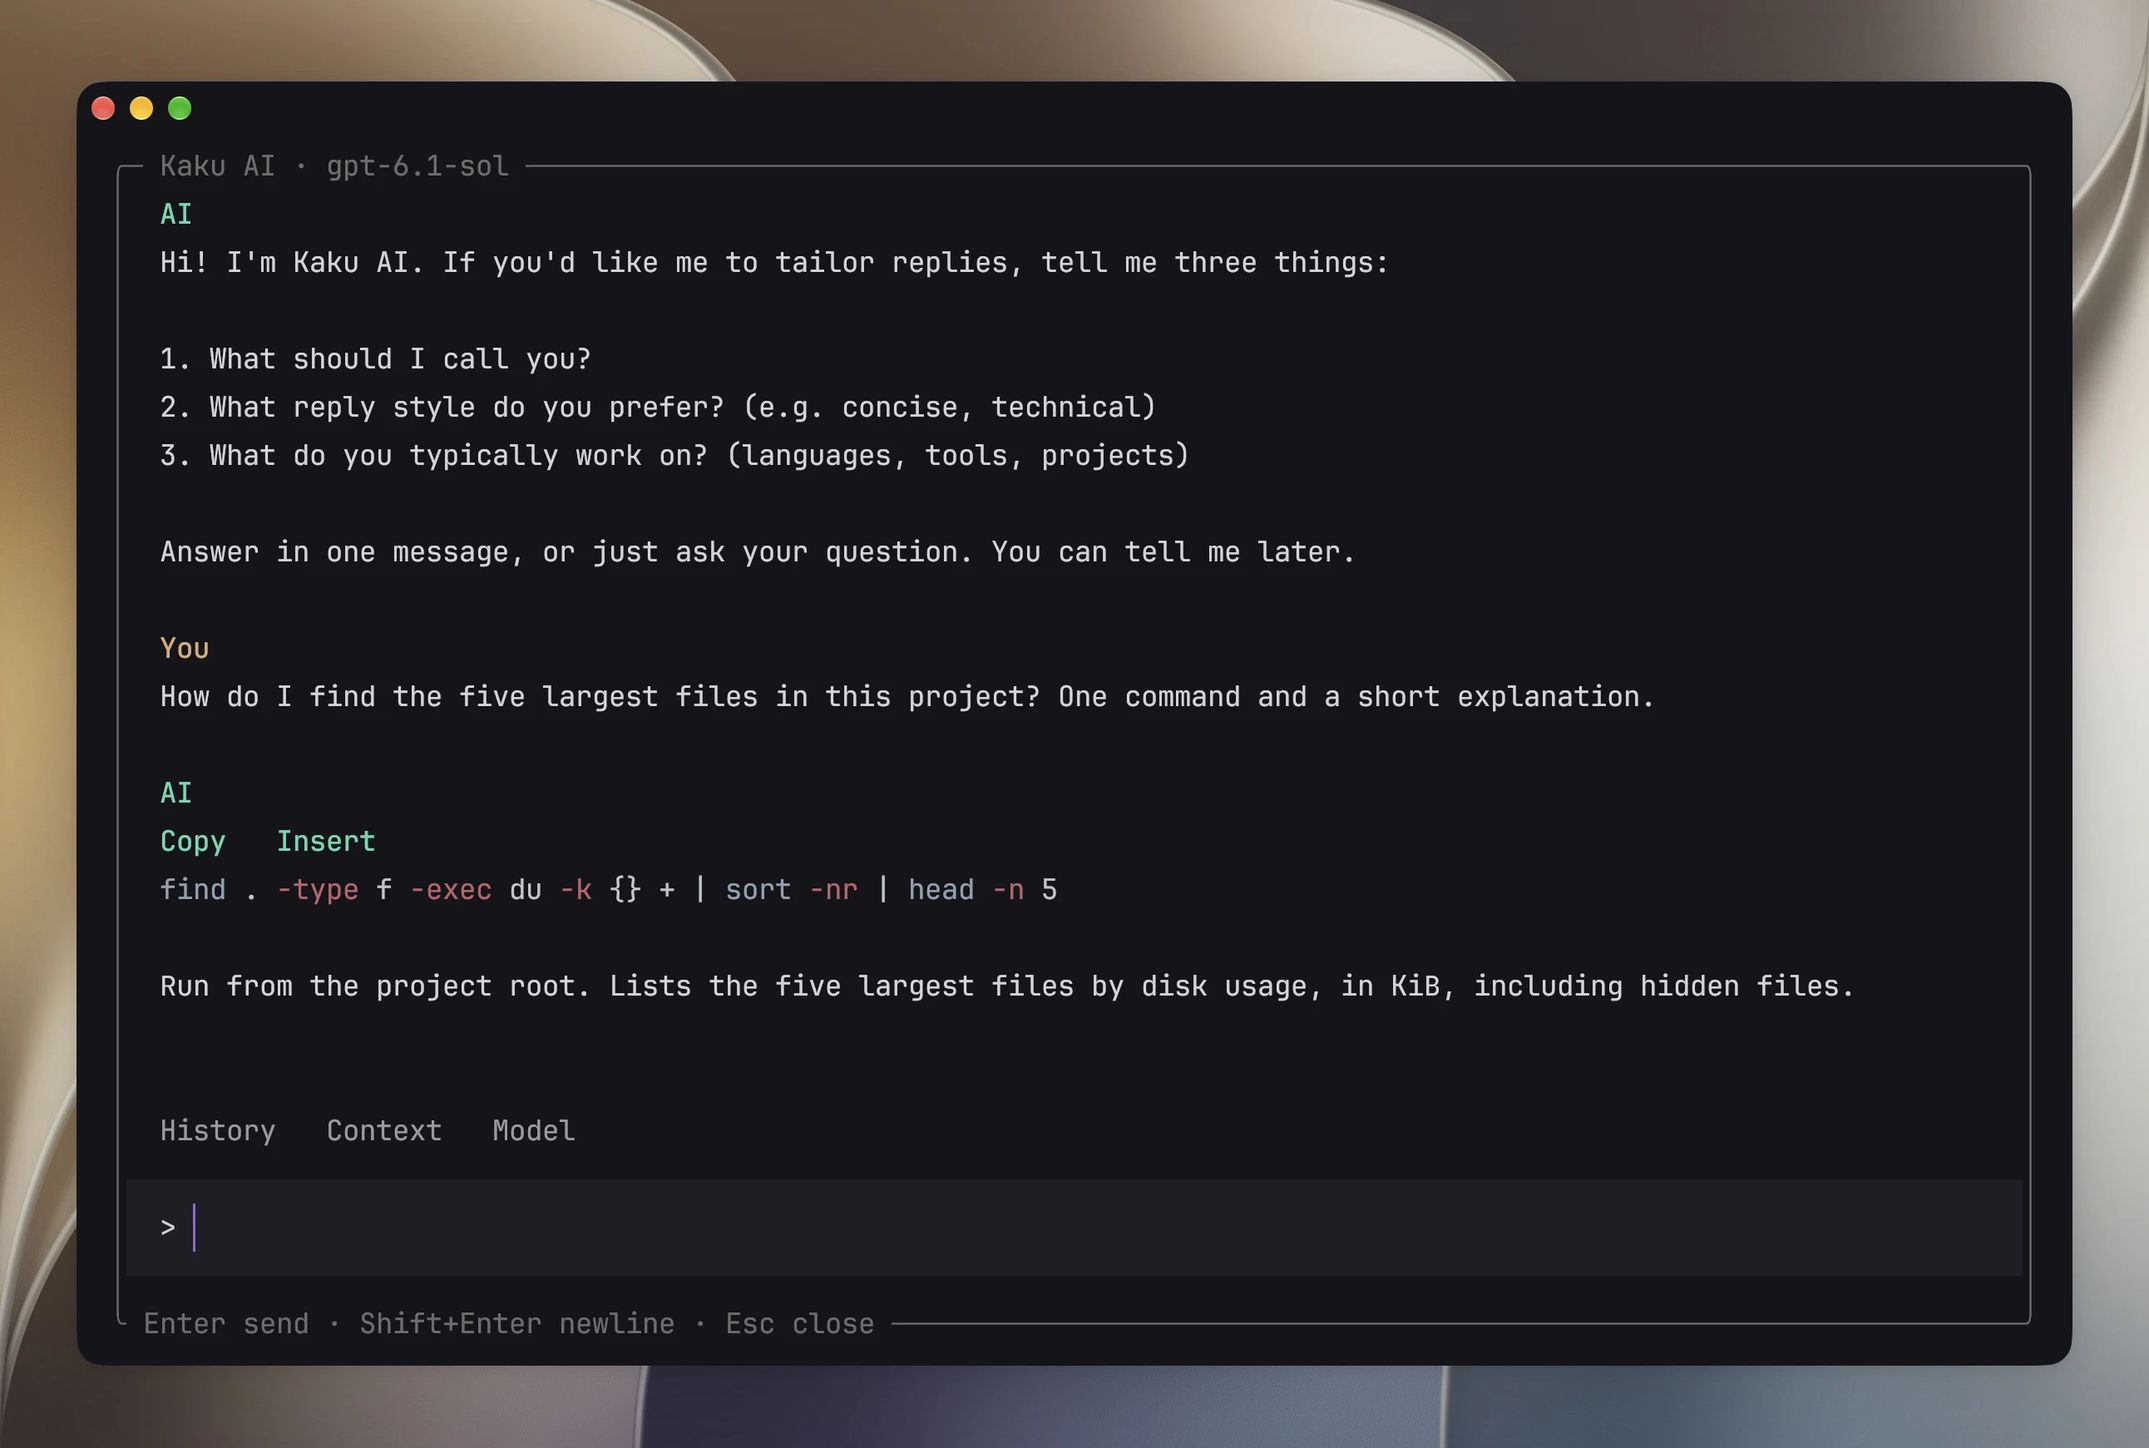
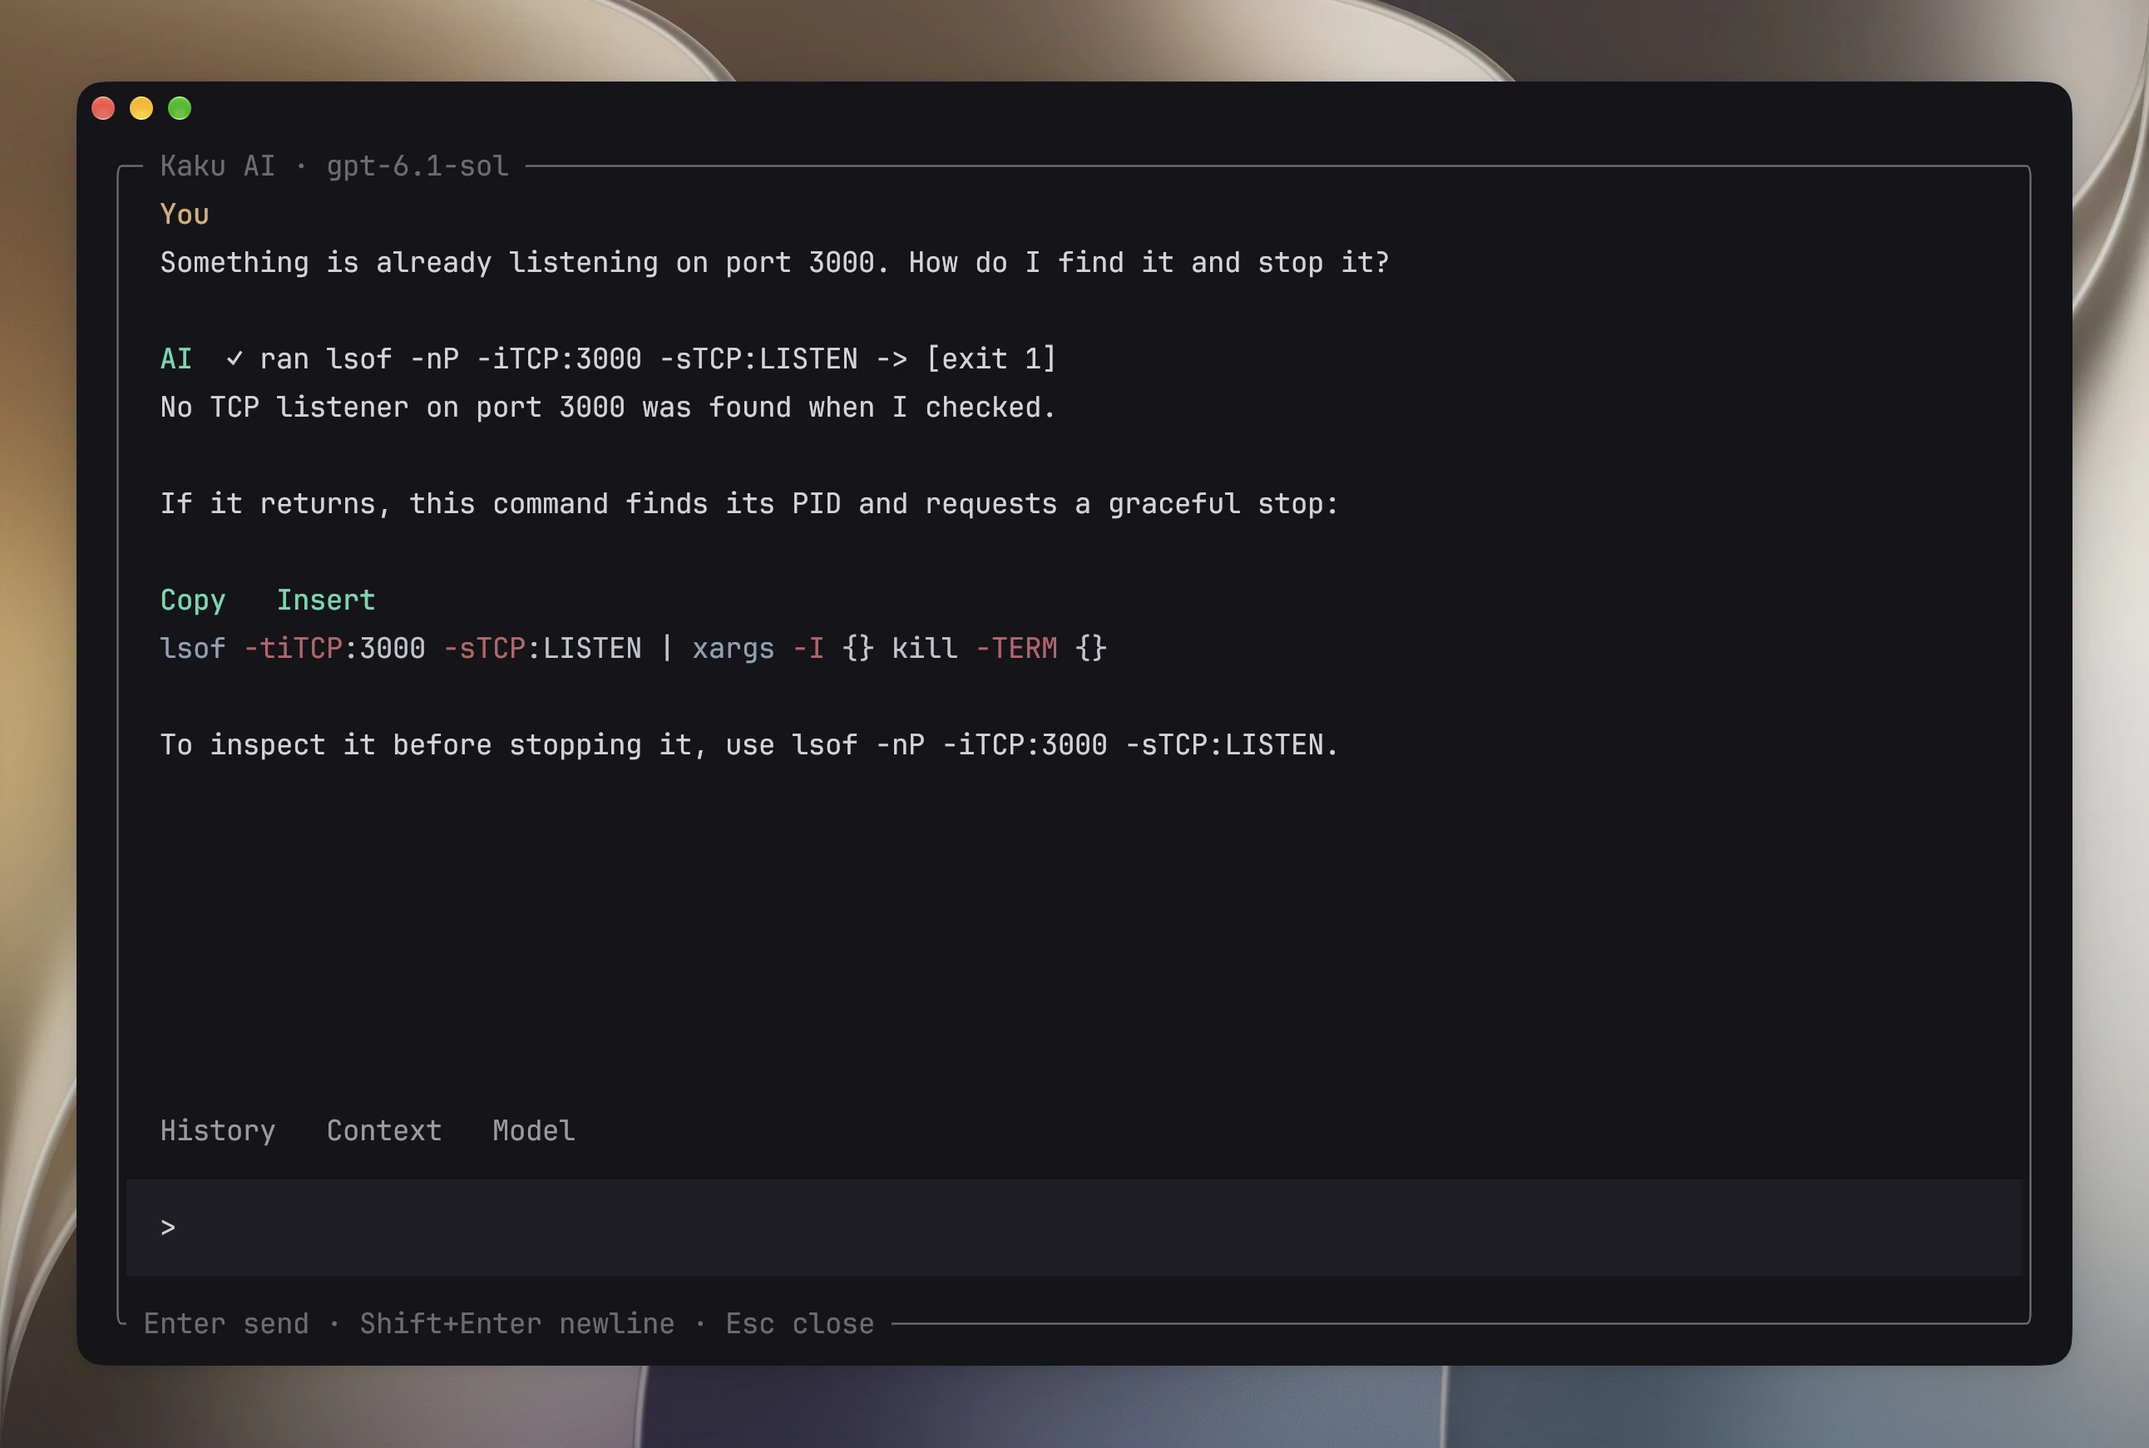
feat(site): add a panes shot and retake the light and Kaku AI shots
Tabs and panes lead the defaults list but no shot showed them; the new one splits lazygit, vim and a shell with the tab bar visible. The light Yazi shot had picked up the dark flavor from the capture machine, so its dividers and selection were dark; it now uses kaku-light as a light user sees it. The Kaku AI shot showed the first-run greeting and now shows a real answer.

diff --git a/zh/index.html b/zh/index.html
@@ -244,16 +244,18 @@
       <div class="gallery" data-gallery>
         <div class="gallery-frame">
           <figure class="gallery-panel is-active" id="shot-ai" role="tabpanel" aria-labelledby="tab-ai"><a href="/shots/home/ai.webp?v=ca1374cd3185" tabindex="-1"><img src="/shots/home/ai-1980w.webp?v=ca1374cd3185" srcset="/shots/home/ai-1080w.webp?v=ca1374cd3185 1080w, /shots/home/ai-1980w.webp?v=ca1374cd3185 1980w, /shots/home/ai.webp?v=ca1374cd3185 2584w" sizes="(max-width: 1120px) calc(100vw - 32px), 992px" width="2584" height="1741" fetchpriority="high" decoding="async" alt="Claude Code 在项目里干活，窗口右上角显示它正在做什么"></a></figure>
-          <figure class="gallery-panel" id="shot-assistant" role="tabpanel" aria-labelledby="tab-assistant" aria-hidden="true"><a href="/shots/home/assistant.webp?v=abd83af602f3" tabindex="-1"><img src="/shots/home/assistant-1980w.webp?v=abd83af602f3" srcset="/shots/home/assistant-1080w.webp?v=abd83af602f3 1080w, /shots/home/assistant-1980w.webp?v=abd83af602f3 1980w, /shots/home/assistant.webp?v=abd83af602f3 2584w" sizes="(max-width: 1120px) calc(100vw - 32px), 992px" width="2584" height="1741" loading="lazy" decoding="async" alt="按 Cmd + L 直接问，回答里的命令可以复制或插入"></a></figure>
+          <figure class="gallery-panel" id="shot-panes" role="tabpanel" aria-labelledby="tab-panes" aria-hidden="true"><a href="/shots/home/panes.webp?v=442e35ad0e76" tabindex="-1"><img src="/shots/home/panes-1980w.webp?v=442e35ad0e76" srcset="/shots/home/panes-1080w.webp?v=442e35ad0e76 1080w, /shots/home/panes-1980w.webp?v=442e35ad0e76 1980w, /shots/home/panes.webp?v=442e35ad0e76 2584w" sizes="(max-width: 1120px) calc(100vw - 32px), 992px" width="2584" height="1741" loading="lazy" decoding="async" alt="按 Cmd + D 分屏，标签排在窗口底部"></a></figure>
+          <figure class="gallery-panel" id="shot-assistant" role="tabpanel" aria-labelledby="tab-assistant" aria-hidden="true"><a href="/shots/home/assistant.webp?v=0552264029aa" tabindex="-1"><img src="/shots/home/assistant-1980w.webp?v=0552264029aa" srcset="/shots/home/assistant-1080w.webp?v=0552264029aa 1080w, /shots/home/assistant-1980w.webp?v=0552264029aa 1980w, /shots/home/assistant.webp?v=0552264029aa 2584w" sizes="(max-width: 1120px) calc(100vw - 32px), 992px" width="2584" height="1741" loading="lazy" decoding="async" alt="按 Cmd + L 直接问，回答里的命令可以复制或插入"></a></figure>
           <figure class="gallery-panel" id="shot-commands" role="tabpanel" aria-labelledby="tab-commands" aria-hidden="true"><a href="/shots/home/commands.webp?v=b7734a4016c7" tabindex="-1"><img src="/shots/home/commands-1980w.webp?v=b7734a4016c7" srcset="/shots/home/commands-1080w.webp?v=b7734a4016c7 1080w, /shots/home/commands-1980w.webp?v=b7734a4016c7 1980w, /shots/home/commands.webp?v=b7734a4016c7 2584w" sizes="(max-width: 1120px) calc(100vw - 32px), 992px" width="2584" height="1741" loading="lazy" decoding="async" alt="输入 ## 加一句话，给出几条命令供你挑"></a></figure>
           <figure class="gallery-panel" id="shot-files-dark" role="tabpanel" aria-labelledby="tab-files-dark" aria-hidden="true"><a href="/shots/home/files-dark.webp?v=fce983ac5f46" tabindex="-1"><img src="/shots/home/files-dark-1980w.webp?v=fce983ac5f46" srcset="/shots/home/files-dark-1080w.webp?v=fce983ac5f46 1080w, /shots/home/files-dark-1980w.webp?v=fce983ac5f46 1980w, /shots/home/files-dark.webp?v=fce983ac5f46 2584w" sizes="(max-width: 1120px) calc(100vw - 32px), 992px" width="2584" height="1741" loading="lazy" decoding="async" alt="按 Cmd + Shift + Y 用 Yazi 浏览文件和代码"></a></figure>
-          <figure class="gallery-panel" id="shot-files-light" role="tabpanel" aria-labelledby="tab-files-light" aria-hidden="true"><a href="/shots/home/files-light.webp?v=52bc7579f3dd" tabindex="-1"><img src="/shots/home/files-light-1980w.webp?v=52bc7579f3dd" srcset="/shots/home/files-light-1080w.webp?v=52bc7579f3dd 1080w, /shots/home/files-light-1980w.webp?v=52bc7579f3dd 1980w, /shots/home/files-light.webp?v=52bc7579f3dd 2584w" sizes="(max-width: 1120px) calc(100vw - 32px), 992px" width="2584" height="1741" loading="lazy" decoding="async" alt="同一个工作区换成 Kaku Light"></a></figure>
+          <figure class="gallery-panel" id="shot-files-light" role="tabpanel" aria-labelledby="tab-files-light" aria-hidden="true"><a href="/shots/home/files-light.webp?v=5e7ccdb5302e" tabindex="-1"><img src="/shots/home/files-light-1980w.webp?v=5e7ccdb5302e" srcset="/shots/home/files-light-1080w.webp?v=5e7ccdb5302e 1080w, /shots/home/files-light-1980w.webp?v=5e7ccdb5302e 1980w, /shots/home/files-light.webp?v=5e7ccdb5302e 2584w" sizes="(max-width: 1120px) calc(100vw - 32px), 992px" width="2584" height="1741" loading="lazy" decoding="async" alt="同一个工作区换成 Kaku Light"></a></figure>
           <figure class="gallery-panel" id="shot-settings" role="tabpanel" aria-labelledby="tab-settings" aria-hidden="true"><a href="/shots/home/settings.webp?v=f4a44ffaa78b" tabindex="-1"><img src="/shots/home/settings-1980w.webp?v=f4a44ffaa78b" srcset="/shots/home/settings-1080w.webp?v=f4a44ffaa78b 1080w, /shots/home/settings-1980w.webp?v=f4a44ffaa78b 1980w, /shots/home/settings.webp?v=f4a44ffaa78b 2584w" sizes="(max-width: 1120px) calc(100vw - 32px), 992px" width="2584" height="1741" loading="lazy" decoding="async" alt="运行 kaku config 调整字体、主题和窗口"></a></figure>
           <figure class="gallery-panel" id="shot-cli" role="tabpanel" aria-labelledby="tab-cli" aria-hidden="true"><a href="/shots/home/cli.webp?v=98a227a12d86" tabindex="-1"><img src="/shots/home/cli-1980w.webp?v=98a227a12d86" srcset="/shots/home/cli-1080w.webp?v=98a227a12d86 1080w, /shots/home/cli-1980w.webp?v=98a227a12d86 1980w, /shots/home/cli.webp?v=98a227a12d86 2584w" sizes="(max-width: 1120px) calc(100vw - 32px), 992px" width="2584" height="1741" loading="lazy" decoding="async" alt="运行 kaku，聊天、AI 配置、自检和更新都在这里"></a></figure>
         </div>
         <div class="gallery-caption" aria-live="polite"><p class="title" data-gallery-title>AI 编程</p><p class="line" data-gallery-line>Claude Code 在项目里干活，窗口右上角显示它正在做什么</p></div>
         <div class="gallery-tabs" role="tablist" aria-label="选择一张 Kaku 截图">
             <button id="tab-ai" type="button" role="tab" class="is-active" aria-selected="true" aria-controls="shot-ai" data-title="AI 编程" data-line="Claude Code 在项目里干活，窗口右上角显示它正在做什么">AI 编程</button>
+            <button id="tab-panes" type="button" role="tab" aria-selected="false" aria-controls="shot-panes" tabindex="-1" data-title="分屏" data-line="按 Cmd + D 分屏，标签排在窗口底部">分屏</button>
             <button id="tab-assistant" type="button" role="tab" aria-selected="false" aria-controls="shot-assistant" tabindex="-1" data-title="AI 聊天" data-line="按 Cmd + L 直接问，回答里的命令可以复制或插入">AI 聊天</button>
             <button id="tab-commands" type="button" role="tab" aria-selected="false" aria-controls="shot-commands" tabindex="-1" data-title="一句话命令" data-line="输入 ## 加一句话，给出几条命令供你挑">一句话命令</button>
             <button id="tab-files-dark" type="button" role="tab" aria-selected="false" aria-controls="shot-files-dark" tabindex="-1" data-title="文件管理" data-line="按 Cmd + Shift + Y 用 Yazi 浏览文件和代码">文件管理</button>

diff --git a/index.html b/index.html
@@ -210,16 +210,18 @@
       <div class="gallery" data-gallery>
         <div class="gallery-frame">
           <figure class="gallery-panel is-active" id="shot-ai" role="tabpanel" aria-labelledby="tab-ai"><a href="/shots/home/ai.webp?v=ca1374cd3185" tabindex="-1"><img src="/shots/home/ai-1980w.webp?v=ca1374cd3185" srcset="/shots/home/ai-1080w.webp?v=ca1374cd3185 1080w, /shots/home/ai-1980w.webp?v=ca1374cd3185 1980w, /shots/home/ai.webp?v=ca1374cd3185 2584w" sizes="(max-width: 1120px) calc(100vw - 32px), 992px" width="2584" height="1741" fetchpriority="high" decoding="async" alt="Claude Code works in your project, and its topic shows at the top right"></a></figure>
-          <figure class="gallery-panel" id="shot-assistant" role="tabpanel" aria-labelledby="tab-assistant" aria-hidden="true"><a href="/shots/home/assistant.webp?v=abd83af602f3" tabindex="-1"><img src="/shots/home/assistant-1980w.webp?v=abd83af602f3" srcset="/shots/home/assistant-1080w.webp?v=abd83af602f3 1080w, /shots/home/assistant-1980w.webp?v=abd83af602f3 1980w, /shots/home/assistant.webp?v=abd83af602f3 2584w" sizes="(max-width: 1120px) calc(100vw - 32px), 992px" width="2584" height="1741" loading="lazy" decoding="async" alt="Press Cmd + L to ask, then copy or insert the command"></a></figure>
+          <figure class="gallery-panel" id="shot-panes" role="tabpanel" aria-labelledby="tab-panes" aria-hidden="true"><a href="/shots/home/panes.webp?v=442e35ad0e76" tabindex="-1"><img src="/shots/home/panes-1980w.webp?v=442e35ad0e76" srcset="/shots/home/panes-1080w.webp?v=442e35ad0e76 1080w, /shots/home/panes-1980w.webp?v=442e35ad0e76 1980w, /shots/home/panes.webp?v=442e35ad0e76 2584w" sizes="(max-width: 1120px) calc(100vw - 32px), 992px" width="2584" height="1741" loading="lazy" decoding="async" alt="Press Cmd + D to split, and tabs sit along the bottom"></a></figure>
+          <figure class="gallery-panel" id="shot-assistant" role="tabpanel" aria-labelledby="tab-assistant" aria-hidden="true"><a href="/shots/home/assistant.webp?v=0552264029aa" tabindex="-1"><img src="/shots/home/assistant-1980w.webp?v=0552264029aa" srcset="/shots/home/assistant-1080w.webp?v=0552264029aa 1080w, /shots/home/assistant-1980w.webp?v=0552264029aa 1980w, /shots/home/assistant.webp?v=0552264029aa 2584w" sizes="(max-width: 1120px) calc(100vw - 32px), 992px" width="2584" height="1741" loading="lazy" decoding="async" alt="Press Cmd + L to ask, then copy or insert the command"></a></figure>
           <figure class="gallery-panel" id="shot-commands" role="tabpanel" aria-labelledby="tab-commands" aria-hidden="true"><a href="/shots/home/commands.webp?v=b7734a4016c7" tabindex="-1"><img src="/shots/home/commands-1980w.webp?v=b7734a4016c7" srcset="/shots/home/commands-1080w.webp?v=b7734a4016c7 1080w, /shots/home/commands-1980w.webp?v=b7734a4016c7 1980w, /shots/home/commands.webp?v=b7734a4016c7 2584w" sizes="(max-width: 1120px) calc(100vw - 32px), 992px" width="2584" height="1741" loading="lazy" decoding="async" alt="Type ## and a sentence to get a few commands to pick from"></a></figure>
           <figure class="gallery-panel" id="shot-files-dark" role="tabpanel" aria-labelledby="tab-files-dark" aria-hidden="true"><a href="/shots/home/files-dark.webp?v=fce983ac5f46" tabindex="-1"><img src="/shots/home/files-dark-1980w.webp?v=fce983ac5f46" srcset="/shots/home/files-dark-1080w.webp?v=fce983ac5f46 1080w, /shots/home/files-dark-1980w.webp?v=fce983ac5f46 1980w, /shots/home/files-dark.webp?v=fce983ac5f46 2584w" sizes="(max-width: 1120px) calc(100vw - 32px), 992px" width="2584" height="1741" loading="lazy" decoding="async" alt="Press Cmd + Shift + Y to browse files and code with Yazi"></a></figure>
-          <figure class="gallery-panel" id="shot-files-light" role="tabpanel" aria-labelledby="tab-files-light" aria-hidden="true"><a href="/shots/home/files-light.webp?v=52bc7579f3dd" tabindex="-1"><img src="/shots/home/files-light-1980w.webp?v=52bc7579f3dd" srcset="/shots/home/files-light-1080w.webp?v=52bc7579f3dd 1080w, /shots/home/files-light-1980w.webp?v=52bc7579f3dd 1980w, /shots/home/files-light.webp?v=52bc7579f3dd 2584w" sizes="(max-width: 1120px) calc(100vw - 32px), 992px" width="2584" height="1741" loading="lazy" decoding="async" alt="The same workspace in Kaku Light"></a></figure>
+          <figure class="gallery-panel" id="shot-files-light" role="tabpanel" aria-labelledby="tab-files-light" aria-hidden="true"><a href="/shots/home/files-light.webp?v=5e7ccdb5302e" tabindex="-1"><img src="/shots/home/files-light-1980w.webp?v=5e7ccdb5302e" srcset="/shots/home/files-light-1080w.webp?v=5e7ccdb5302e 1080w, /shots/home/files-light-1980w.webp?v=5e7ccdb5302e 1980w, /shots/home/files-light.webp?v=5e7ccdb5302e 2584w" sizes="(max-width: 1120px) calc(100vw - 32px), 992px" width="2584" height="1741" loading="lazy" decoding="async" alt="The same workspace in Kaku Light"></a></figure>
           <figure class="gallery-panel" id="shot-settings" role="tabpanel" aria-labelledby="tab-settings" aria-hidden="true"><a href="/shots/home/settings.webp?v=f4a44ffaa78b" tabindex="-1"><img src="/shots/home/settings-1980w.webp?v=f4a44ffaa78b" srcset="/shots/home/settings-1080w.webp?v=f4a44ffaa78b 1080w, /shots/home/settings-1980w.webp?v=f4a44ffaa78b 1980w, /shots/home/settings.webp?v=f4a44ffaa78b 2584w" sizes="(max-width: 1120px) calc(100vw - 32px), 992px" width="2584" height="1741" loading="lazy" decoding="async" alt="Run kaku config to change fonts, themes and windows"></a></figure>
           <figure class="gallery-panel" id="shot-cli" role="tabpanel" aria-labelledby="tab-cli" aria-hidden="true"><a href="/shots/home/cli.webp?v=98a227a12d86" tabindex="-1"><img src="/shots/home/cli-1980w.webp?v=98a227a12d86" srcset="/shots/home/cli-1080w.webp?v=98a227a12d86 1080w, /shots/home/cli-1980w.webp?v=98a227a12d86 1980w, /shots/home/cli.webp?v=98a227a12d86 2584w" sizes="(max-width: 1120px) calc(100vw - 32px), 992px" width="2584" height="1741" loading="lazy" decoding="async" alt="Run kaku for chat, AI setup, checkups and updates"></a></figure>
         </div>
         <div class="gallery-caption" aria-live="polite"><p class="title" data-gallery-title>AI coding</p><p class="line" data-gallery-line>Claude Code works in your project, and its topic shows at the top right</p></div>
         <div class="gallery-tabs" role="tablist" aria-label="Choose a Kaku screenshot">
             <button id="tab-ai" type="button" role="tab" class="is-active" aria-selected="true" aria-controls="shot-ai" data-title="AI coding" data-line="Claude Code works in your project, and its topic shows at the top right">AI coding</button>
+            <button id="tab-panes" type="button" role="tab" aria-selected="false" aria-controls="shot-panes" tabindex="-1" data-title="Panes" data-line="Press Cmd + D to split, and tabs sit along the bottom">Panes</button>
             <button id="tab-assistant" type="button" role="tab" aria-selected="false" aria-controls="shot-assistant" tabindex="-1" data-title="Kaku AI" data-line="Press Cmd + L to ask, then copy or insert the command">Kaku AI</button>
             <button id="tab-commands" type="button" role="tab" aria-selected="false" aria-controls="shot-commands" tabindex="-1" data-title="Commands" data-line="Type ## and a sentence to get a few commands to pick from">Commands</button>
             <button id="tab-files-dark" type="button" role="tab" aria-selected="false" aria-controls="shot-files-dark" tabindex="-1" data-title="Files" data-line="Press Cmd + Shift + Y to browse files and code with Yazi">Files</button>
